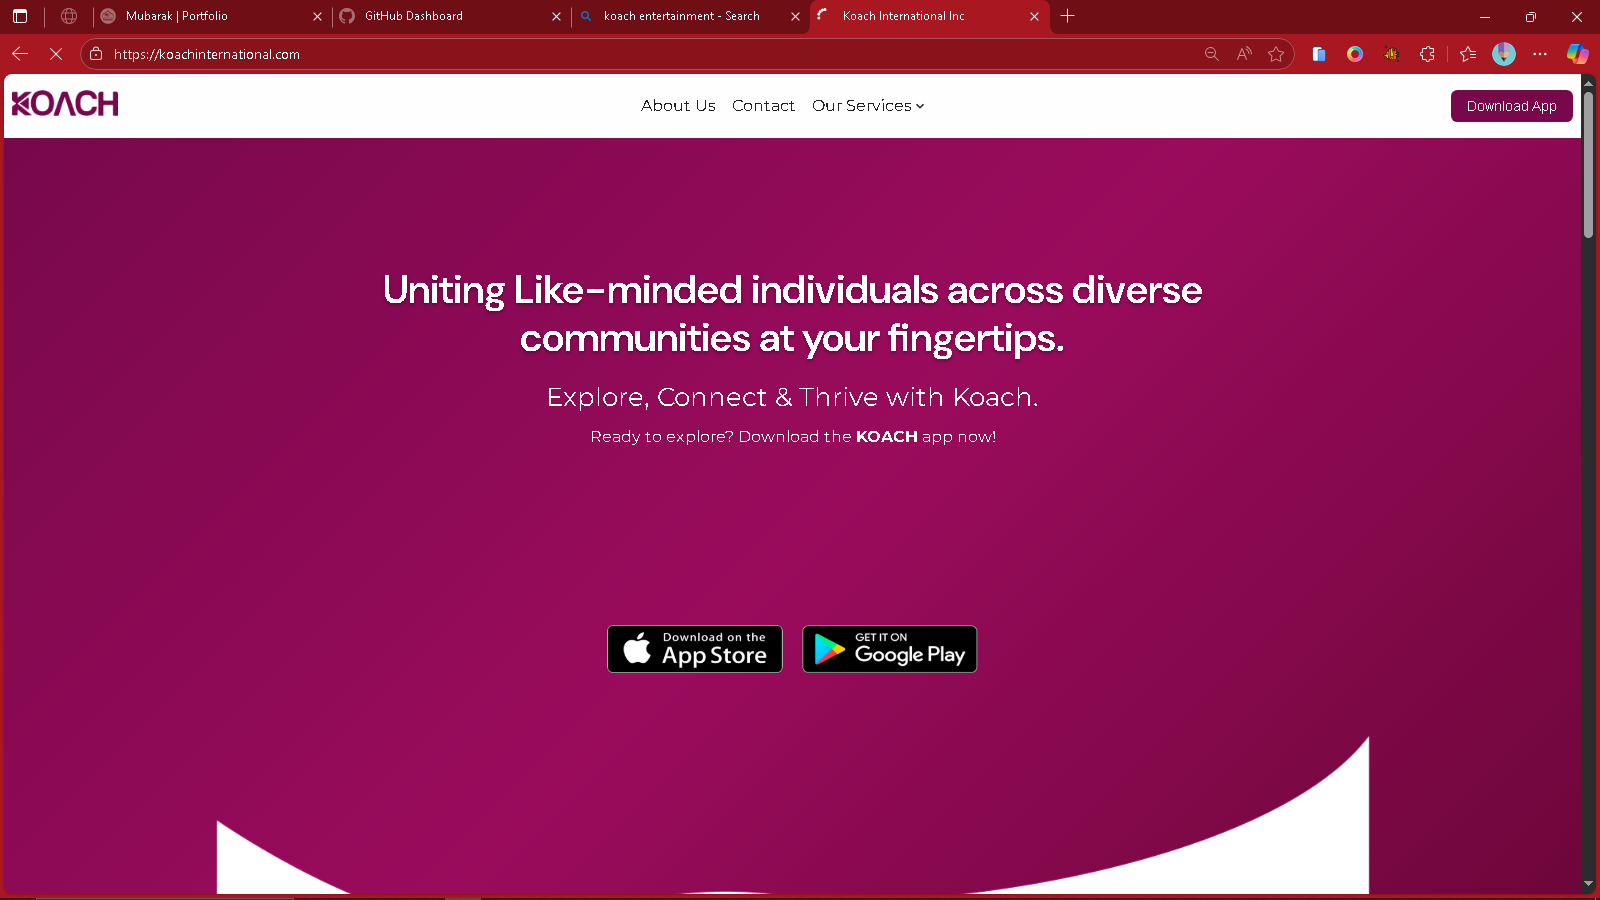
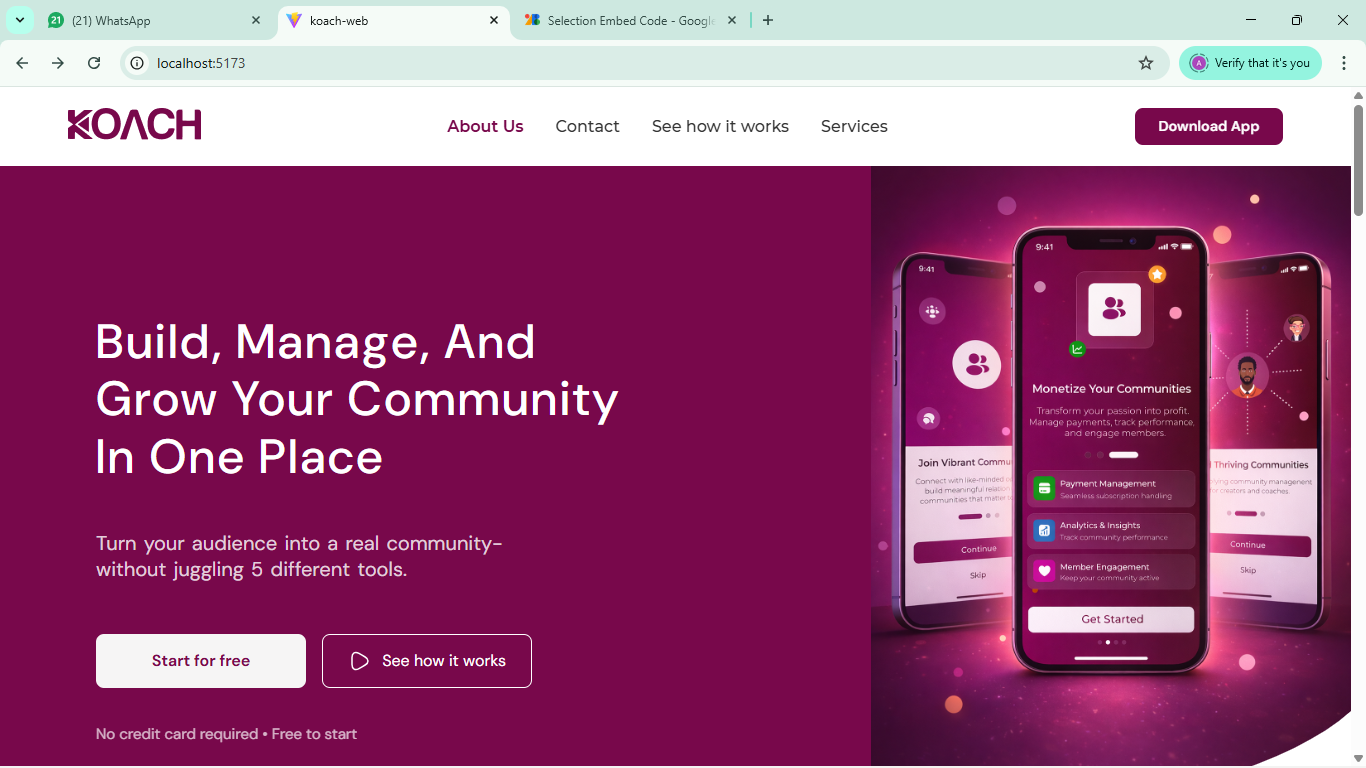
commit

diff --git a/index.html b/index.html
@@ -214,7 +214,7 @@
                   <img src="images/FirstProject.png" alt="Footwear Ecommerce" class="project-img">
                   <div class="project-overlay">
                      <a href="https://foot-wear-ecomerce.vercel.app" target="_blank" class="project-link">
-                        <i class="fas fa-external-link-alt"></i> Live Demo
+                        <i class="fas fa-external-link-alt"></i>  View Project
                      </a>
                   </div>
                </div>
@@ -229,43 +229,23 @@
                </div>
             </div>
 
-            <!-- Project 2 -->
-            <div class="project-card reveal">
-               <div class="project-img-wrap">
-                  <img src="images/Bolt-bank.png" alt="Chat AI" class="project-img">
-                  <div class="project-overlay">
-                     <a href="https://school-football-league.vercel.app" target="_blank" class="project-link">
-                        <i class="fas fa-external-link-alt"></i> Live Demo
-                     </a>
-                  </div>
-               </div>
-               <div class="project-info">
-                  <div class="project-tags">
-                     <span class="tag">React</span>
-                     <span class="tag">JavaScript</span>
-                  </div>
-                  <h3>Bolt Bank</h3>
-                  <p>A modern banking application with a focus on user experience and security.</p>
-               </div>
-            </div>
 
-            <!-- Project 3 -->
             <div class="project-card reveal">
                <div class="project-img-wrap">
-                  <img src="images/Screenshot (383).png" alt="AI Model" class="project-img">
+                  <img src="images/Vue_project.png" alt="AI Model" class="project-img">
                   <div class="project-overlay">
-                     <a href="https://data-analyst-portfolio-rho-three.vercel.app" class="project-link">
-                        <i class="fas fa-external-link-alt"></i> Live Demo
+                     <a href="vibe-app-beryl-psi.vercel.app" class="project-link">
+                        <i class="fas fa-external-link-alt"></i>  View Project
                      </a>
                   </div>
                </div>
                <div class="project-info">
                   <div class="project-tags">
-                     <span class="tag">Next.js</span>
-                     <span class="tag">API</span>
+                     <span class="tag">HTML</span>
+                     <span class="tag">Vue.js</span>
                   </div>
-                  <h3>Data Analyst Portfolio</h3>
-                  <p>A comprehensive portfolio showcasing data analysis projects and insights.</p>
+                  <h3>Posting App</h3>
+                  <p>A social media app for sharing posts and interacting with other users.</p>
                </div>
             </div>
 
@@ -275,7 +255,7 @@
                   <img src="images/Al-hirz.png" alt="Online Arabic School" class="project-img">
                   <div class="project-overlay">
                      <a href="https://al-hirz.onrender.com/" target="_blank" class="project-link">
-                        <i class="fas fa-external-link-alt"></i> Live Demo
+                        <i class="fas fa-external-link-alt"></i>  View Project
                      </a>
                   </div>
                </div>
@@ -295,21 +275,60 @@
                <div class="project-img-wrap">
                   <img src="images/seconProject.png" alt="Calculator" class="project-img">
                   <div class="project-overlay">
-                     <a href="#" class="project-link">
-                        <i class="fas fa-external-link-alt"></i> Live Demo
+                     <a href="mr-muheez.vercel.app" class="project-link">
+                        <i class="fas fa-external-link-alt"></i>  View Project
                      </a>
                   </div>
                </div>
                <div class="project-info">
                   <div class="project-tags">
+                     <span class="tag">HTML</span>
                      <span class="tag">JavaScript</span>
-                     <span class="tag">CSS Grid</span>
+                     <span class="tag">CSS</span>
                   </div>
-                  <h3>Smart Calculator</h3>
-                  <p>A sleek calculator with scientific functions and keyboard support.</p>
+                  <h3>A UI/UX Portfolio</h3>
+                  <p>A comprehensive portfolio showcasing a UI/UX projects and insights.</p>
+               </div>
+            </div>
+            <!-- project 6 -->
+            <div class="project-card project-large reveal">
+               <div class="project-img-wrap">
+                  <img src="images/budgetflex.png" alt="Project 6" class="project-img">
+                  <div class="project-overlay">
+                     <a href="#" class="project-link">
+                        <i class="fas fa-external-link-alt"></i> View Project
+                     </a>
+                  </div>
+               </div>
+               <div class="project-info">
+                  <div class="project-tags">
+                     <span class="tag">Next.js</span> 
+                  </div>
+                  <h3>BudgetFlex</h3>
+                  <p>A modern budgeting app for managing personal finances.</p>
+               </div>
+            </div>
+            <!-- project 7 -->
+            <div class="project-card reveal" style="margin-top: 23px;">
+               <div class="project-img-wrap">
+                  <img src="images/School-sport.png" alt="School Sports Management" class="project-img">
+                  <div class="project-overlay">
+                     <a href="https://school-football-league.vercel.app" class="project-link">
+                        <i class="fas fa-external-link-alt"></i>  View Project
+                     </a>
+                  </div>
+               </div>
+               <div class="project-info">
+                  <div class="project-tags">
+                     <span class="tag">React.js</span>
+                  </div>
+                  <h3>School Sports Management</h3>
+                  <p>A platform for managing and organizing school sports events and competitions.</p>
                </div>
             </div>
          </div>
+         
+         
 
          <!-- <div class="portfolio-cta reveal">
             <a href="portfolio.html" class="btn btn-outline">